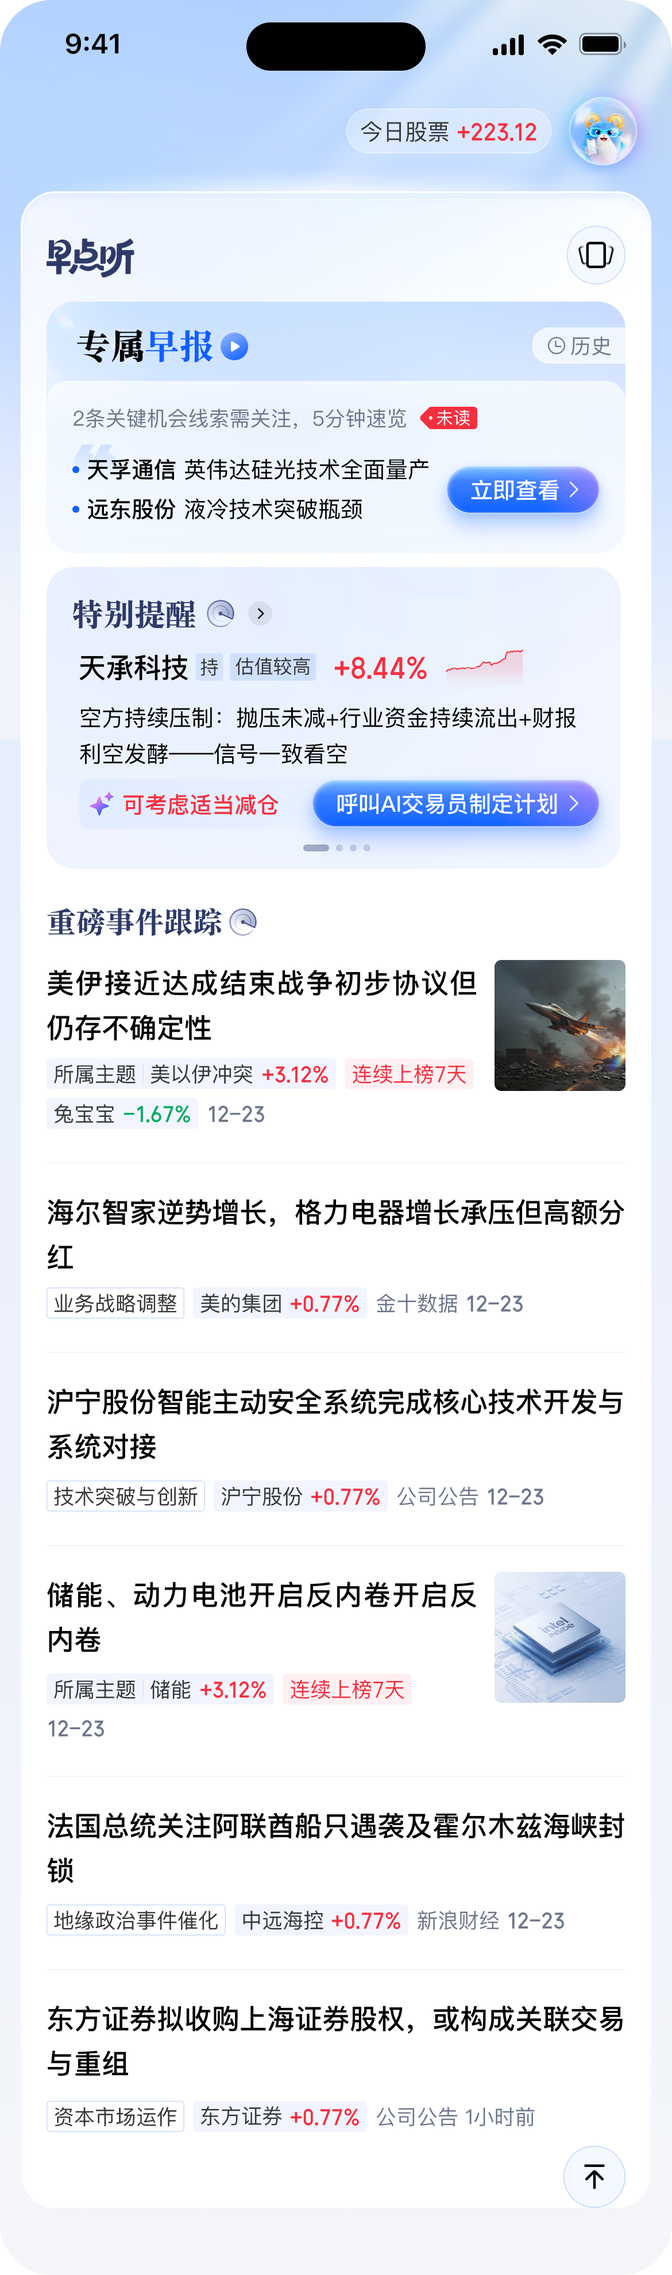
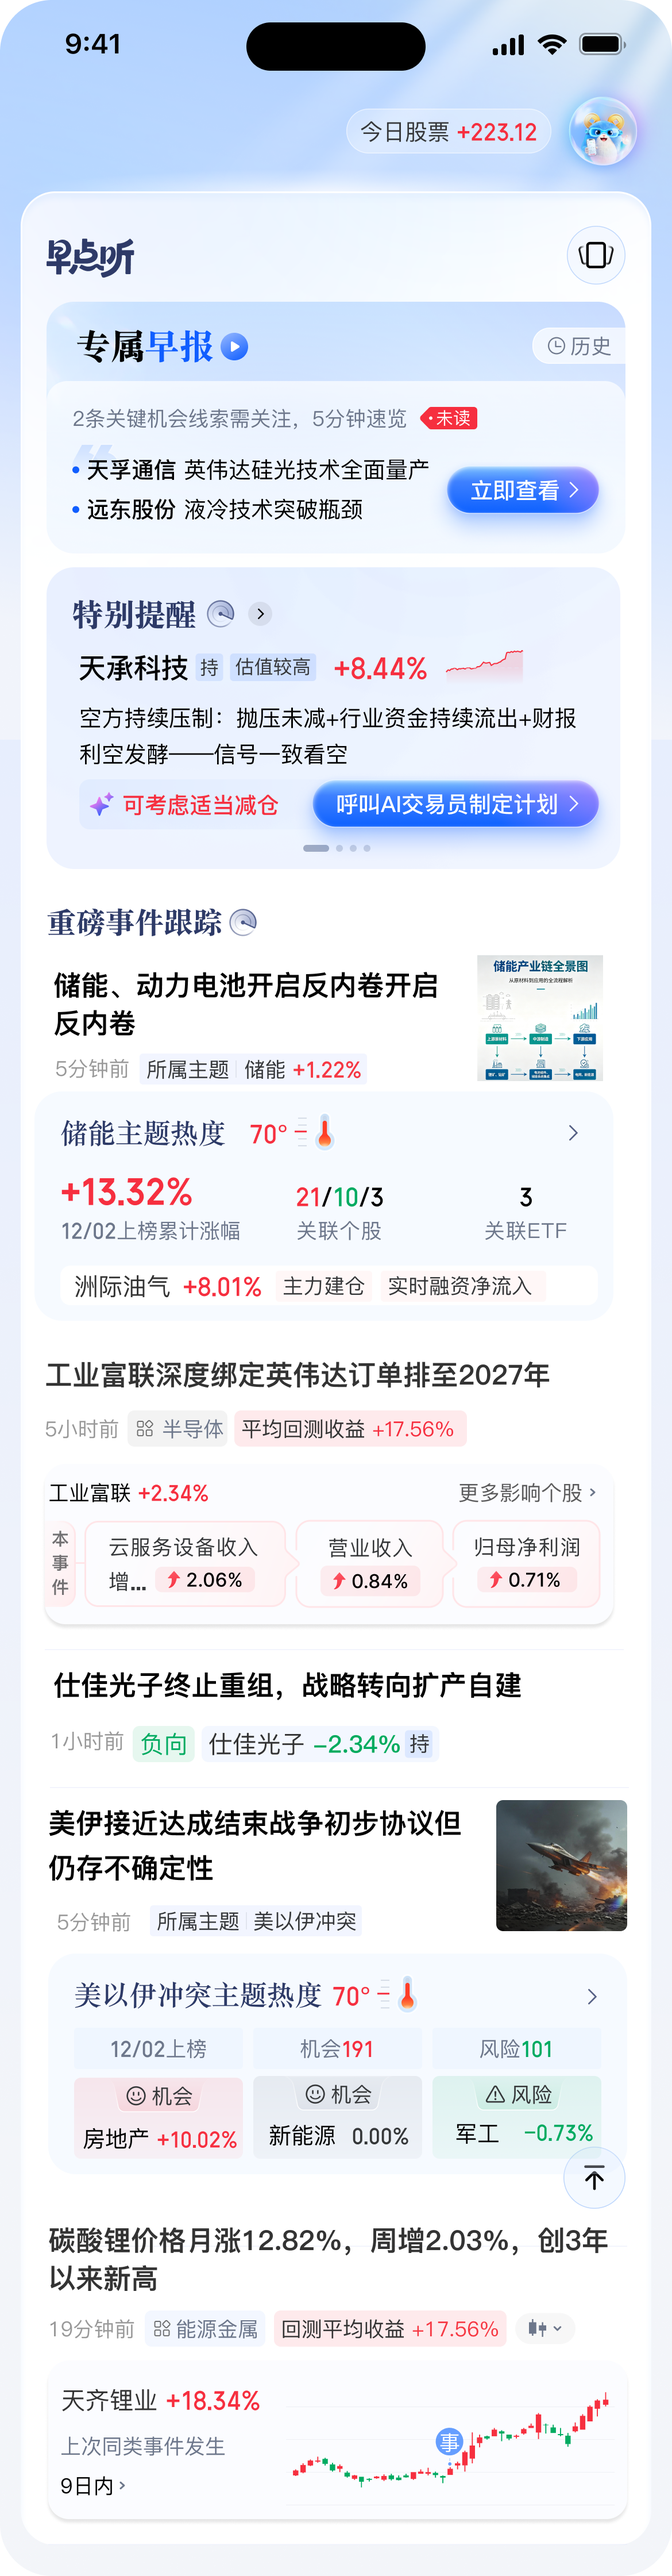
feat(account): enhance account management features and UI interactions
- Added new account management screen with interactive hotspots for user navigation.
- Updated script.js to include logic for the new accountMng screen and adjusted visibility settings for the bottom bar.
- Introduced a new function to hide previous tab modules for better user experience.
- Enhanced styles in styles.css to improve layout and z-index for hotspots and chat tabs.
- Added new screen assets for account management to support the updated functionality.

diff --git a/script.js b/script.js
@@ -43,9 +43,9 @@ const screens = {
   report: {
     src: "./assets/screens/morning-list.png",
     scrollHotspots: [
-      { label: "查看我的账户", x: 50, y: 3.8, w: 45, h: 5.8, target: "account" },
-      { label: "查看特别提醒", x: 6.8, y: 25.7, w: 86.4, h: 13.4, target: "specialNotice" },
-      { label: "呼叫AI交易员制定计划", x: 46, y: 34.7, w: 45, h: 4.2, target: "aiTrader" }
+      { label: "查看我的账户", x: 81, y: 2.9, w: 13, h: 4.8, target: "account" },
+      { label: "查看特别提醒", x: 6.8, y: 22.4, w: 86.4, h: 14.5, target: "specialNotice" },
+      { label: "呼叫AI交易员制定计划", x: 48, y: 30.4, w: 43, h: 3.8, target: "aiTrader" }
     ],
     fixedHotspots: [],
     guide: { id: "report-trans-nav", layer: "fixed", x: 60, y: 0, w: 20, h: 100 }
@@ -53,7 +53,7 @@ const screens = {
   account: {
     src: "./assets/screens/account.png",
     scrollHotspots: [
-      { label: "关闭我的账户", x: 2.5, y: 5.2, w: 10, h: 6, target: "market" },
+      { label: "关闭我的账户", x: 3, y: 4.6, w: 34, h: 12, target: "market" },
       { label: "查看账户管家分析", x: 3, y: 35.2, w: 94, h: 7.5, target: "accountMng" }
     ],
     fixedHotspots: [],
